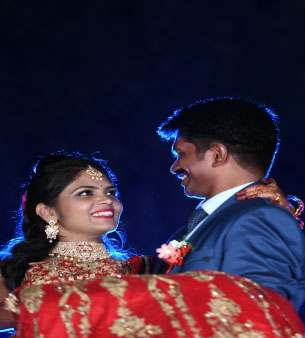
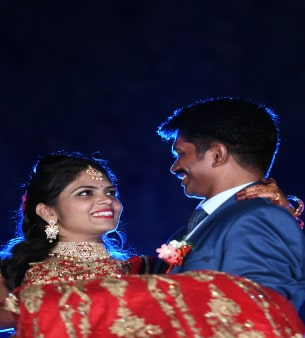
change

diff --git a/public/service.php b/public/service.php
@@ -41,7 +41,7 @@
 				<div class="service-block-three col-lg-3 col-md-6 col-sm-12">
 					<div class="inner-box wow fadeInUp" data-wow-delay="500ms" data-wow-duration="1500ms">
 						<div class="image">
-							<a href=""><img src="images/resource/service_epicPlanners_5.jpeg" alt="<?php companyTitle();?>" /></a>
+							<a href=""><img src="images/resource/service_epicPlanners_5.jpeg" alt="<?php companyTitle();?>"></a>
 						</div>
 						<div class="lower-content">
 							<h3><a href="">Photography & videography</a></h3>
